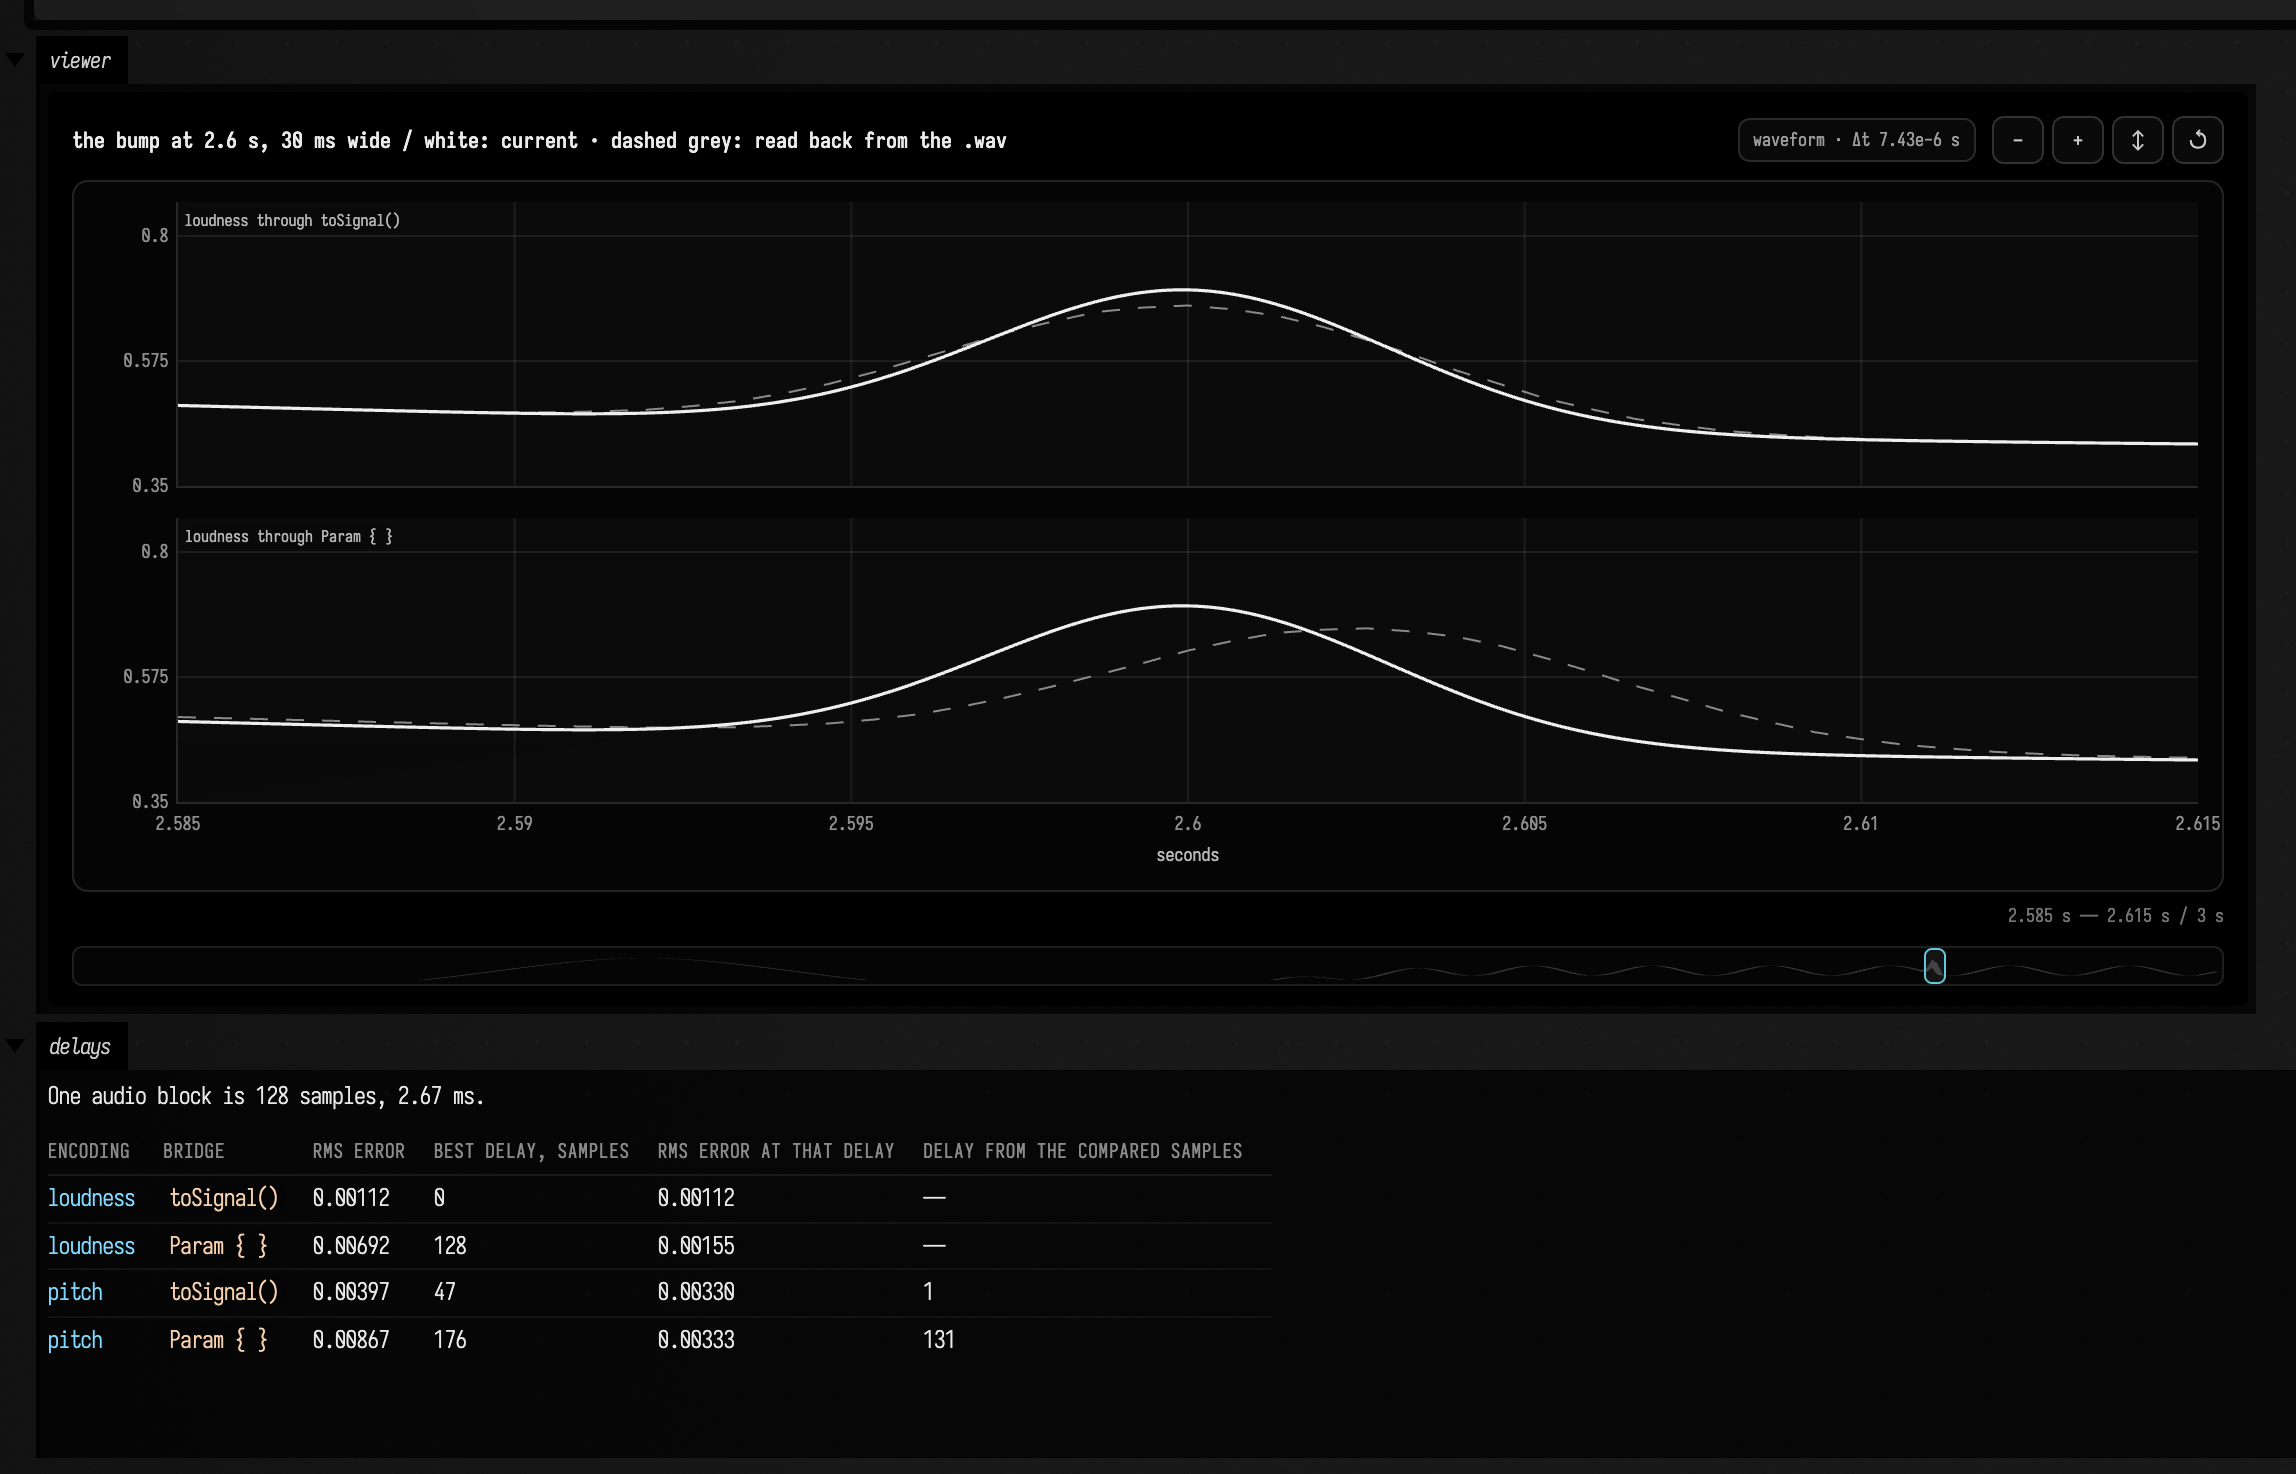
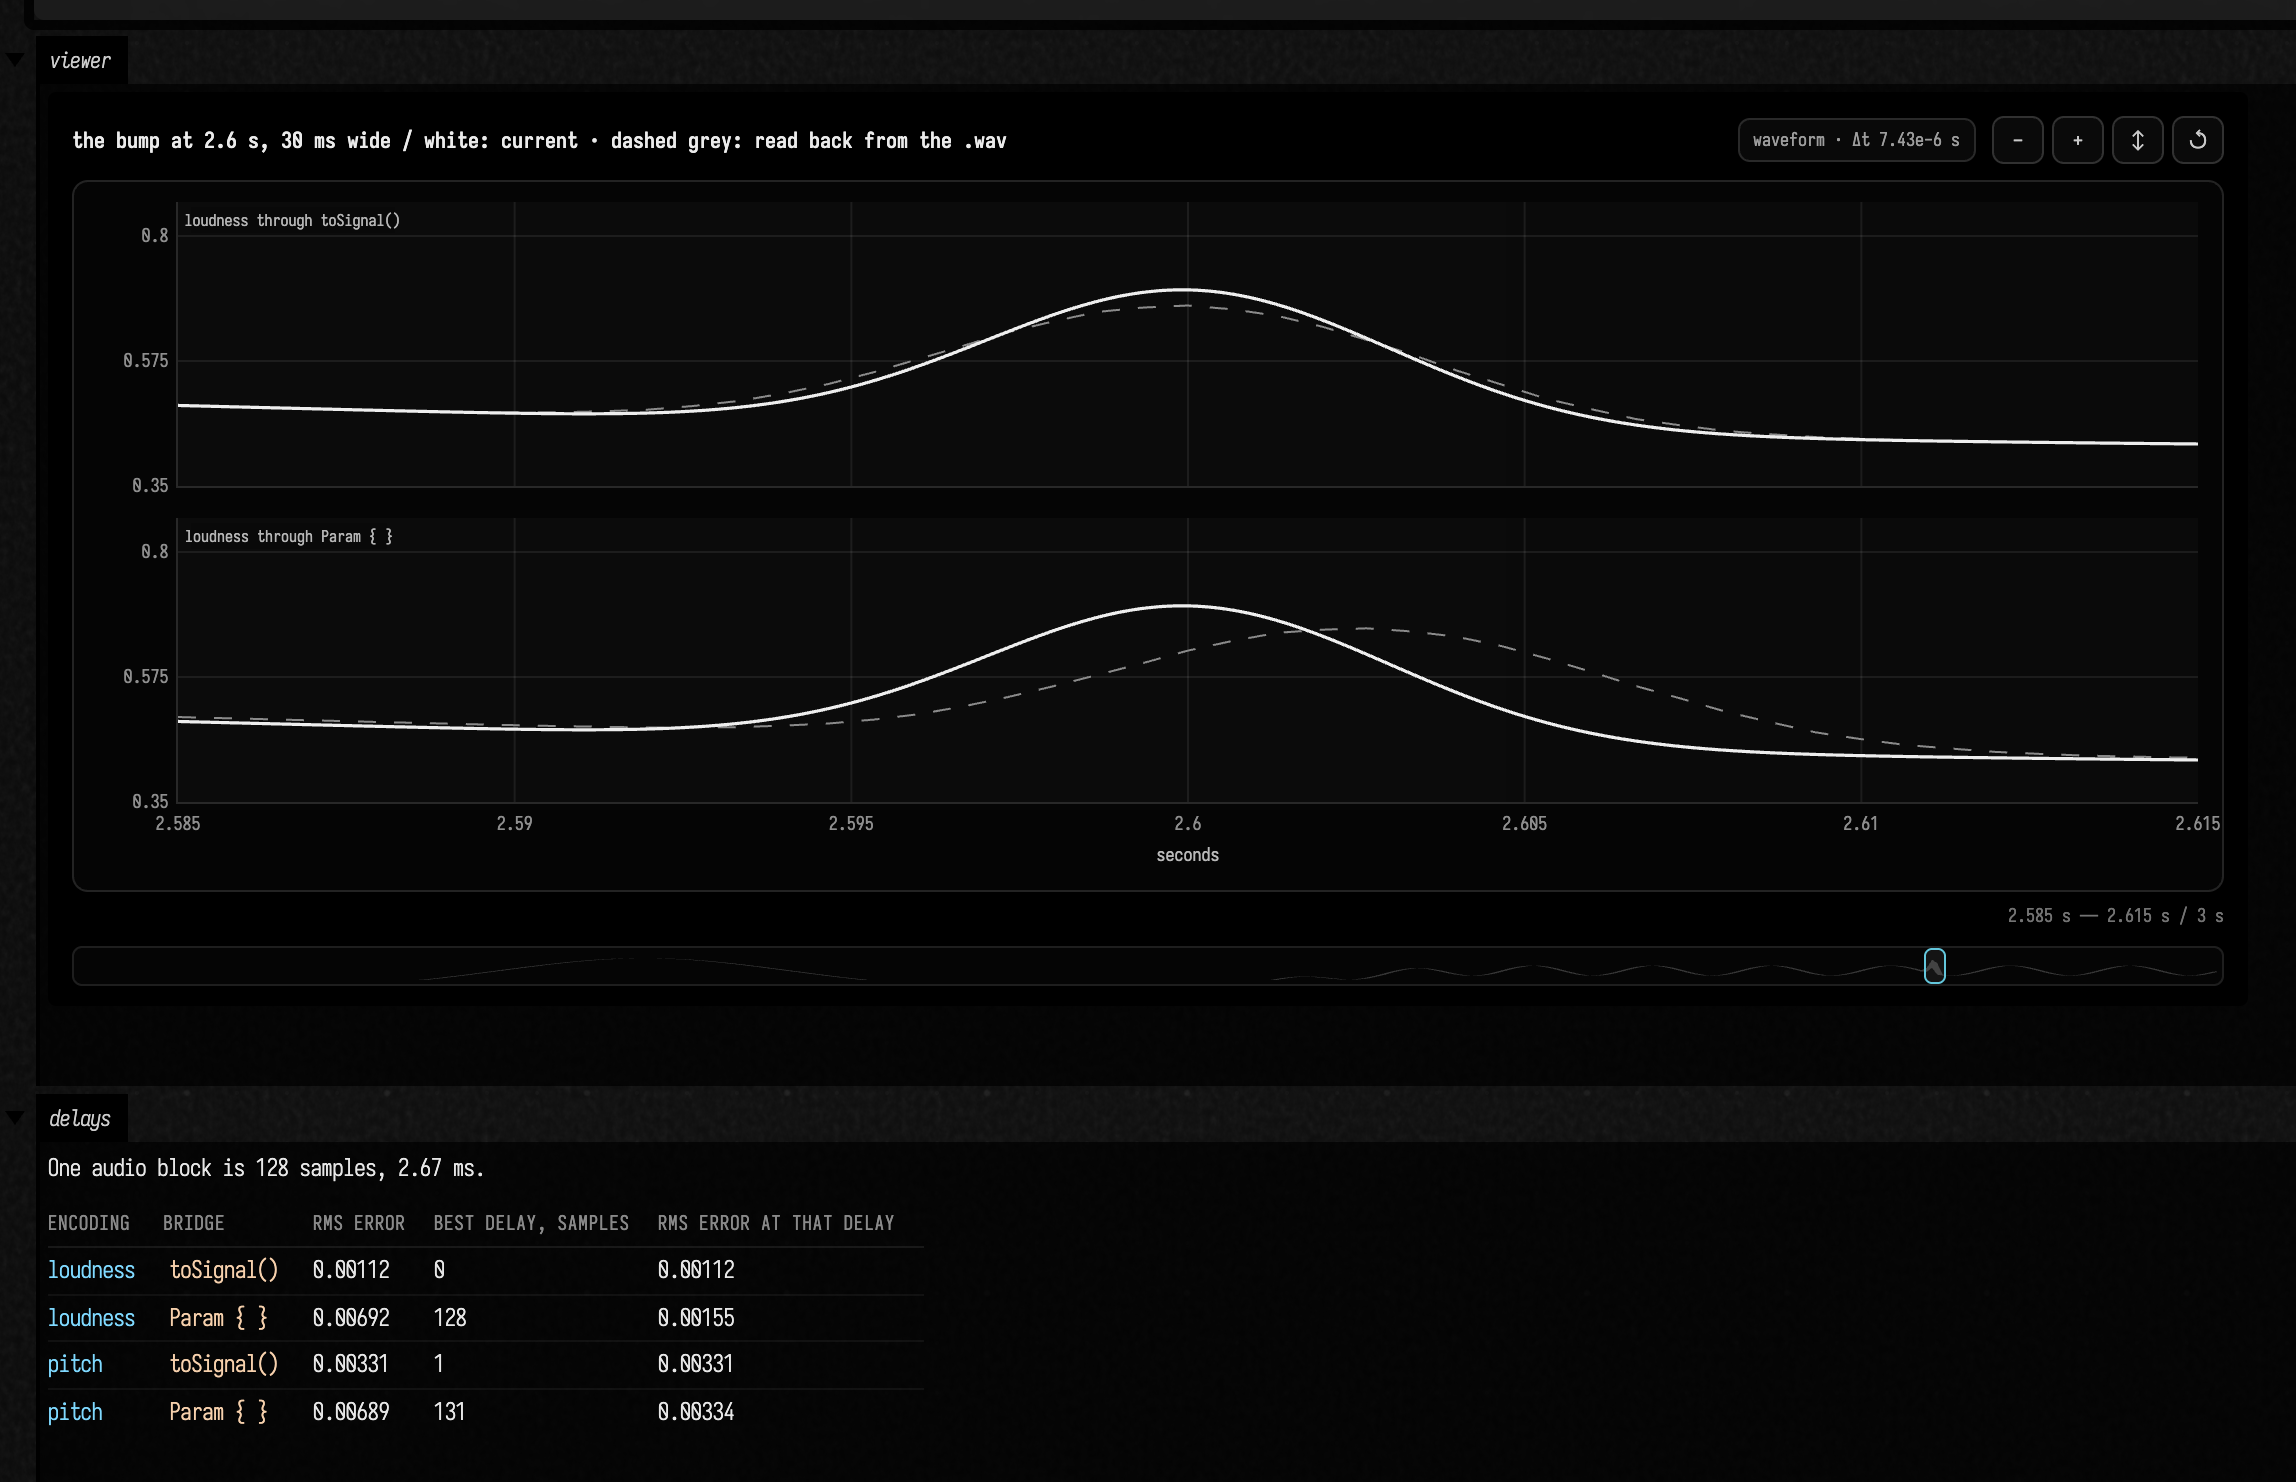
PatF0Frame.measuredCenterSample: report a pitch estimate at the samples YIN compared
FnSoundDocs reads it instead of re-centring by hand; chain-fn-delays recaptured.

diff --git a/src/jvmMain/kotlin/afield/audio/synth/FnSoundDocs.kt b/src/jvmMain/kotlin/afield/audio/synth/FnSoundDocs.kt
@@ -135,20 +135,14 @@ object FnSoundDocs {
 
     /**
      * One analysis frame: the samples it read, `[firstSample, lastSample]`, the time the analysis
-     * attributes its value to, and what it recovered — `NaN` for a YIN frame that was not voiced.
-     *
-     * [supportCenterSeconds] is the centre of the samples the estimate actually *compared*. For an
-     * RMS frame that is [centerSeconds]. For a YIN frame it is not: `PatF0Frame.centerSample` is the
-     * middle of `window + tauMax` samples, but the difference function at the lag YIN picked, `tau`,
-     * only reads `window + tau` of them, so for any pitch above `minHz` the estimate is really about
-     * an instant `(tauMax - tau) / 2` samples earlier than the one it is attributed to.
+     * attributes its value to, and what it recovered — `NaN` for a YIN frame that was not voiced. A
+     * YIN frame's time is `PatF0Frame.measuredCenterSample`, the centre of the samples it compared.
      */
     data class Frame(
         val firstSample: Int,
         val lastSample: Int,
         val centerSeconds: Double,
         val recovered: Double,
-        val supportCenterSeconds: Double = centerSeconds,
     )
 
     /** Analyse samples that were read back from a `.wav`. */
@@ -158,16 +152,10 @@ object FnSoundDocs {
             Frame(first, first + RMS_WINDOW - 1, (first + (RMS_WINDOW - 1) / 2.0) / SR, sqrt(2.0) * rms / LOUDNESS_GAIN)
         }
         Encoding.PITCH -> {
-            val tauMax = (SR / PITCH_MIN_HZ).toInt()
             patF0Frames(samples, SR, PITCH_MIN_HZ, PITCH_MAX_HZ).map { f ->
                 val voiced = f.voiced && f.hz > 0.0
                 val value = if (voiced) ln(f.hz / PITCH_BASE_HZ) / ln(2.0) else Double.NaN
-                val window = f.spanSamples - tauMax
-                val tau = if (voiced) SR / f.hz else tauMax.toDouble()
-                Frame(
-                    f.startSample, f.startSample + f.spanSamples - 1, f.centerSample.toDouble() / SR, value,
-                    supportCenterSeconds = (f.startSample + (window + tau - 1.0) / 2.0) / SR,
-                )
+                Frame(f.startSample, f.startSample + f.spanSamples - 1, f.measuredCenterSample.toDouble() / SR, value)
             }
         }
     }
@@ -202,14 +190,10 @@ object FnSoundDocs {
         val bestLagSamples: Int
         val rmsErrorAtBestLag: Double
 
-        /** [bestLagSamples], measured from each frame's [Frame.supportCenterSeconds] instead. */
-        val bestLagFromSupportSamples: Int
-
         init {
             val (lag, r) = bestLag { it.centerSeconds }
             bestLagSamples = lag
             rmsErrorAtBestLag = r
-            bestLagFromSupportSamples = bestLag { it.supportCenterSeconds }.first
         }
 
         private fun bestLag(time: (Frame) -> Double): Pair<Int, Double> {
@@ -284,7 +268,7 @@ object FnSoundDocs {
             "${encoding.name.lowercase().padEnd(8)} ${route.name.lowercase().padEnd(10)} " +
                 "frames=${measured.size}/${frames.size} max|e|=${"%.5f".format(maxAbsError)} " +
                 "rms=${"%.5f".format(rmsError)} at=${"%.4f".format(maxErrorAtSeconds)} lag=$bestLagSamples " +
-                "rms@lag=${"%.5f".format(rmsErrorAtBestLag)} supportLag=$bestLagFromSupportSamples " +
+                "rms@lag=${"%.5f".format(rmsErrorAtBestLag)} " +
                 "inside=$insideCount/${measured.size} worstOutside=${"%.2e".format(worstOutside)} " +
                 "blip=${"%.3f".format(blip.survival)}"
     }
@@ -334,8 +318,8 @@ object FnSoundDocs {
         // The structural claims the page makes, checked here so the smoke fails when one stops holding.
         check(trip(Encoding.LOUDNESS, Route.PER_SAMPLE).bestLagSamples == 0) { "FnSignal is no longer on time" }
         check(trip(Encoding.LOUDNESS, Route.PER_BLOCK).bestLagSamples == BLOCK) { "Param { } is no longer one block late" }
-        check(abs(trip(Encoding.PITCH, Route.PER_SAMPLE).bestLagFromSupportSamples) <= 3) {
-            "re-centring YIN frames on the samples they compared no longer removes their lag"
+        check(abs(trip(Encoding.PITCH, Route.PER_SAMPLE).bestLagSamples) <= 3) {
+            "YIN frames are no longer reported at the instant they measured"
         }
         check(trips.all { it.measured.isNotEmpty() && it.insideCount > 0 }) { "a trip measured nothing" }
 

diff --git a/src/jvmMain/kotlin/afield/audio/synth/PatPitchDetection.kt b/src/jvmMain/kotlin/afield/audio/synth/PatPitchDetection.kt
@@ -46,6 +46,7 @@
 
 package afield.audio.synth
 
+import kotlin.math.roundToInt
 import kotlin.math.abs
 import kotlin.math.ln
 import kotlin.math.max
@@ -102,6 +103,9 @@ const val PAT_PITCH_MIN_SEMITONES: Double = 0.5
  *   pitch the estimate is centred `(tauMax − tau) / 2` samples earlier than this. `FnSoundDocs`
  *   measures that on a rendered glide; see `chain_fn_sound_roundtrip.md`.
  * @param confidence `1 − d'(tau)`, so 1.0 is a perfectly periodic frame and 0.0 is noise.
+ * @param measuredCenterSample the centre of the `window + tau` samples the difference function
+ *   actually compared at the chosen lag: the instant the estimate is about. Read a pitch track
+ *   against time with this, not [centerSample].
  */
 data class PatF0Frame(
     val startSample: Int,
@@ -111,7 +115,8 @@ data class PatF0Frame(
     val midi: Double,
     val confidence: Double,
     val rms: Double,
-    val voiced: Boolean
+    val voiced: Boolean,
+    val measuredCenterSample: Int = centerSample,
 )
 
 /** MIDI note number of a frequency, as a real number. Inverse of [patMidiToHz]. */
@@ -220,7 +225,8 @@ fun patF0Frames(
             midi = patHzToMidi(hz),
             confidence = (1.0 - dp[best]).coerceIn(0.0, 1.0),
             rms = rms,
-            voiced = false
+            voiced = false,
+            measuredCenterSample = start + ((window + (if (refined > 0.0) refined else tauMax.toDouble()) - 1.0) / 2.0).roundToInt(),
         )
     }
 

diff --git a/src/jvmTest/kotlin/afield/audio/synth/FnSoundRoundTripTest.kt b/src/jvmTest/kotlin/afield/audio/synth/FnSoundRoundTripTest.kt
@@ -63,15 +63,14 @@ class FnSoundRoundTripTest {
     }
 
     @Test
-    fun yinAttributesItsEstimateLateAndTheSupportCentreAccountsForIt() {
+    fun yinReportsItsEstimateAtTheInstantItMeasured() {
         val sample = trip(Encoding.PITCH, Route.PER_SAMPLE)
         val block = trip(Encoding.PITCH, Route.PER_BLOCK)
         assertEquals(1120, sample.measured.size)
         assertEquals(sample.frames.size, sample.measured.size)
-        assertTrue(sample.bestLagSamples in 40..55, "lag ${sample.bestLagSamples} [47]")
-        assertTrue(abs(sample.bestLagFromSupportSamples) <= 3, "support lag ${sample.bestLagFromSupportSamples} [1]")
-        assertTrue(block.bestLagFromSupportSamples - sample.bestLagFromSupportSamples in 124..134,
-            "block route adds ${block.bestLagFromSupportSamples - sample.bestLagFromSupportSamples} [130]")
+        assertTrue(abs(sample.bestLagSamples) <= 3, "lag ${sample.bestLagSamples} [1]")
+        assertTrue(block.bestLagSamples - sample.bestLagSamples in 124..134,
+            "block route adds ${block.bestLagSamples - sample.bestLagSamples} [130]")
         assertTrue(sample.rmsError < 0.005, "rms ${sample.rmsError} [0.00397]")
         assertEquals(sample.measured.size, sample.insideCount)
         assertEquals(block.measured.size, block.insideCount)

diff --git a/public/docs/chain_fn_sound_roundtrip.md b/public/docs/chain_fn_sound_roundtrip.md
@@ -119,20 +119,20 @@ than a sample grid. Nearly every loudness frame lands inside. The few that do no
 one 16-bit step. Every pitch frame lands inside, but a YIN frame reads nearly three times as many
 samples as an RMS frame here, and a wider window has a wider range to land in.
 
-## Two delays, measured to the sample
+## Delays, measured to the sample
 
 The harness also asks what delay best aligns each recovered curve with the function, searching two
 blocks either way at one-sample resolution. The box below plays both encodings through both
 bridges and zooms in on the narrow bump.
 
-```diffstatic_runner {data-lang=kotlin screenshot="assets/chain_fn_sound_roundtrip/delays.png" wait="12" capture="box" open-outputs="true" w="1180" h="640" padding="18" timeout="240" name="chain-fn-delays" embed=true alt="A two-lane time-axis viewer zoomed to thirty milliseconds around the narrow bump. In the top lane the curve read back from the per-sample render sits on the function; in the lower lane the curve read back from the per-block Param render is visibly shifted to the right of it. Below, a table of the four trips giving each one's RMS error, the delay that best aligns it in samples, the RMS error at that delay, and, for pitch, the delay measured from the centre of the samples YIN compared"}
+```diffstatic_runner {data-lang=kotlin screenshot="assets/chain_fn_sound_roundtrip/delays.png" wait="12" capture="box" open-outputs="true" w="1180" h="640" padding="18" timeout="240" name="chain-fn-delays" embed=true alt="A two-lane time-axis viewer zoomed to thirty milliseconds around the narrow bump. In the top lane the curve read back from the per-sample render sits on the function; in the lower lane the curve read back from the per-block Param render is visibly shifted to the right of it. Below, a table of the four trips giving each one's RMS error, the delay that best aligns it in samples, and the RMS error at that delay"}
 :::static
 import afield.audio.synth.FnSoundDocs
 import afield.audio.synth.FnSoundDocs.Encoding
 import afield.audio.synth.FnSoundDocs.Route
 
-// Two encodings through two bridges. bestLagSamples reads f at each frame's reported centre minus
-// a lag; bestLagFromSupportSamples does the same from the centre of the samples the frame compared.
+// Two encodings through two bridges. bestLagSamples reads f at each frame's reported time minus
+// the lag that best aligns the two.
 val trips = Encoding.values().flatMap { e -> Route.values().map { r -> FnSoundDocs.roundTrip(e, r) } }
 fun trip(e: Encoding, r: Route) = trips.single { it.encoding == e && it.route == r }
 
@@ -148,14 +148,13 @@ displaySignal(viewer, "viewer", SignalViewerOptions(width = 1100, laneHeight = 1
 
 val rows = trips.joinToString("\n") { t ->
     "| ${t.encoding.name.lowercase()} | ${if (t.route == Route.PER_SAMPLE) "`toSignal()`" else "`Param { }`"} | " +
-        "${"%.5f".format(t.rmsError)} | ${t.bestLagSamples} | ${"%.5f".format(t.rmsErrorAtBestLag)} | " +
-        (if (t.encoding == Encoding.PITCH) "${t.bestLagFromSupportSamples}" else "—") + " |"
+        "${"%.5f".format(t.rmsError)} | ${t.bestLagSamples} | ${"%.5f".format(t.rmsErrorAtBestLag)} |"
 }
 markdown("delays", """
 One audio block is ${FnSoundDocs.BLOCK} samples, ${"%.2f".format(1000.0 * FnSoundDocs.BLOCK / FnSoundDocs.SR)} ms.
 
-| encoding | bridge | RMS error | best delay, samples | RMS error at that delay | delay from the compared samples |
-|---|---|---|---|---|---|
+| encoding | bridge | RMS error | best delay, samples | RMS error at that delay |
+|---|---|---|---|---|
 $rows
 """, width = 1080)
 :::endfold
@@ -167,20 +166,10 @@ error. That is the ramp described above, and it is why a sharp feature driven th
 arrives a block after it was asked for. `Param` is built for control values set once a block, and
 it does that job. It is the wrong bridge for a function whose shape you mean to hear.
 
-The second delay is in the analysis. `PatF0Frame.centerSample` is the middle of the samples a YIN
-frame spans, `window + tauMax`, but the difference function at the lag YIN chose, `tau`, compares only
-`window + tau` of them. So for any pitch above the lowest the detector was told about, the estimate
-belongs to an instant `(tauMax − tau) / 2` samples earlier than the one it is reported at. Re-centre
-each frame on the samples it compared and the pitch delay through `toSignal()` falls to within a
-sample or two of zero. Through `Param { }`, what is left is one block again. The two delays add.
-
-!!! note "Reading a pitch track against time"
-
-    `patF0Frames` attributes each estimate a little late, by an amount that depends on the pitch:
-    nothing at `minHz`, and up to half of `tauMax` well above it. Telling the detector the true
-    register keeps `tauMax` small and the bias with it. When
-    timing matters to the sample, centre a frame at
-    `startSample + (spanSamples − tauMax + sampleRate / hz) / 2`, the way `FnSoundDocs` does.
+The analysis adds no delay of its own. Each pitch frame is reported at
+`PatF0Frame.measuredCenterSample`, the centre of the samples YIN compared at the lag it chose, so
+through `toSignal()` the pitch delay is within a sample or two of zero. Through `Param { }` it is one
+block again.
 
 ## Where each piece is documented
 
